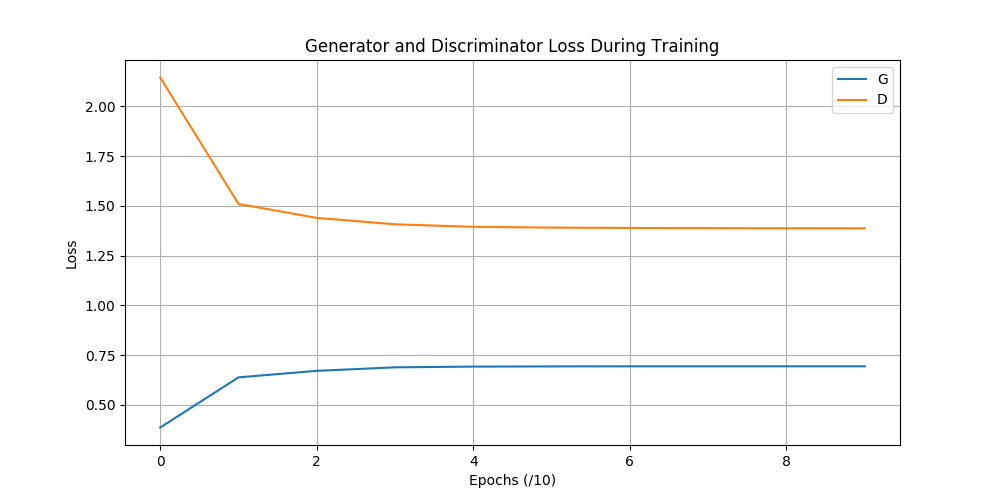
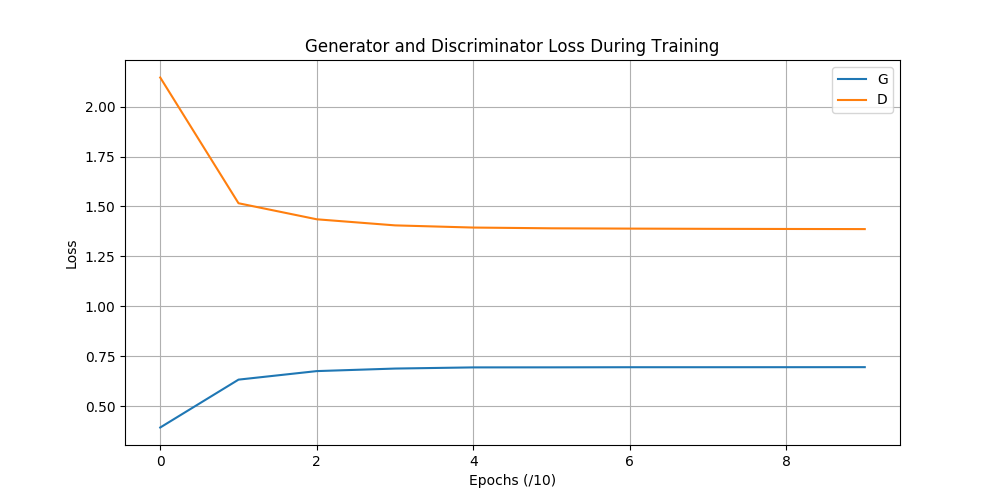
BCElogits

diff --git a/W6_current_dcgan/dcgan.py b/W6_current_dcgan/dcgan.py
@@ -26,9 +26,9 @@ import time
 parser = argparse.ArgumentParser()
 parser.add_argument("-e", "--n_epochs", type=int, default=300, help="number of epochs of training")
 parser.add_argument("-b", "--batch_size", type=int, default=64, help="size of the batches")
-parser.add_argument("--lrD", type=float, default=0.00004, help="adam: learning rate for D")
+parser.add_argument("--lrD", type=float, default=0.0004, help="adam: learning rate for D")
 parser.add_argument("--lrG", type=float, default=0.0004, help="adam: learning rate for G")
-parser.add_argument("--eps", type=float, default=0.00005, help="batchnorm: espilon for numerical stability")
+parser.add_argument("--eps", type=float, default=0.5, help="batchnorm: espilon for numerical stability")
 parser.add_argument("--b1", type=float, default=0.5, help="adam: decay of first order momentum of gradient")
 parser.add_argument("--b2", type=float, default=0.999, help="adam: decay of first order momentum of gradient")
 parser.add_argument("--n_cpu", type=int, default=8, help="number of cpu threads to use during batch generation")
